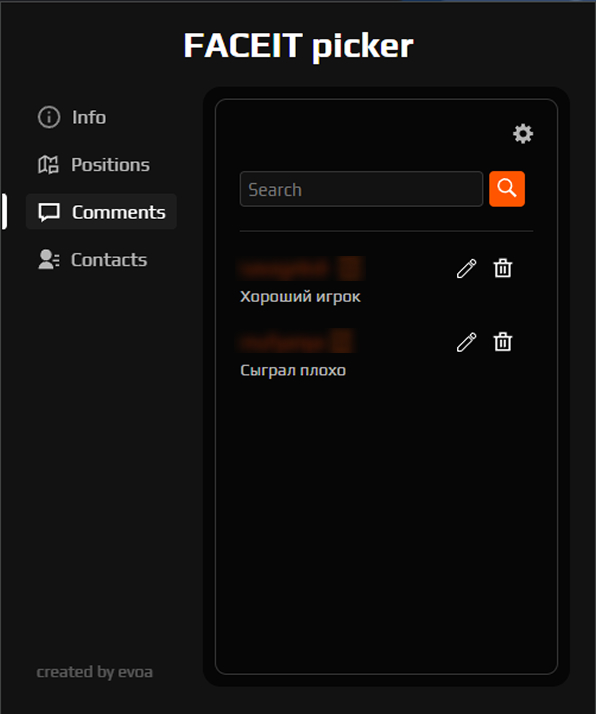
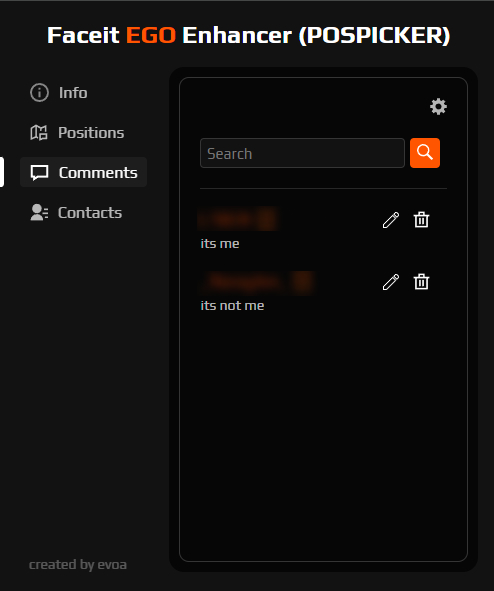
redesign

diff --git a/index.html b/index.html
@@ -3,7 +3,7 @@
 <head>
     <meta charset="UTF-8">
     <meta name="viewport" content="width=device-width, initial-scale=1.0">
-    <title>About FACEIT Picker</title>
+    <title>About Faceit EGO</title>
     <link rel="preconnect" href="https://fonts.googleapis.com">
     <link rel="preconnect" href="https://fonts.gstatic.com" crossorigin>
     <link href="https://fonts.googleapis.com/css2?family=Play:wght@400;700&display=swap" rel="stylesheet">
@@ -251,7 +251,7 @@
 <body>
     <div class="container">
         <img src="img/logo.png" alt="FACEIT Picker Logo" class="site-logo">
-        <h1>Welcome to FACEIT picker! <span class="emoji">🎮</span></h1>
+        <h1>Welcome to Faceit EGO Enhancer<br>(POSPICKER)! </h1>
         <div class="feature">Our extension currently has <b>2 main functions</b>:</div>
         <div class="feature"><b>Position picker <span class="emoji">📍</span></b><br>Players can write the positions they play on different maps and the extension will automatically send them to the chat immediately after choosing a map.<br>
             <img src="img/positions.jpg" alt="Position picker screenshot" class="feature-img">
